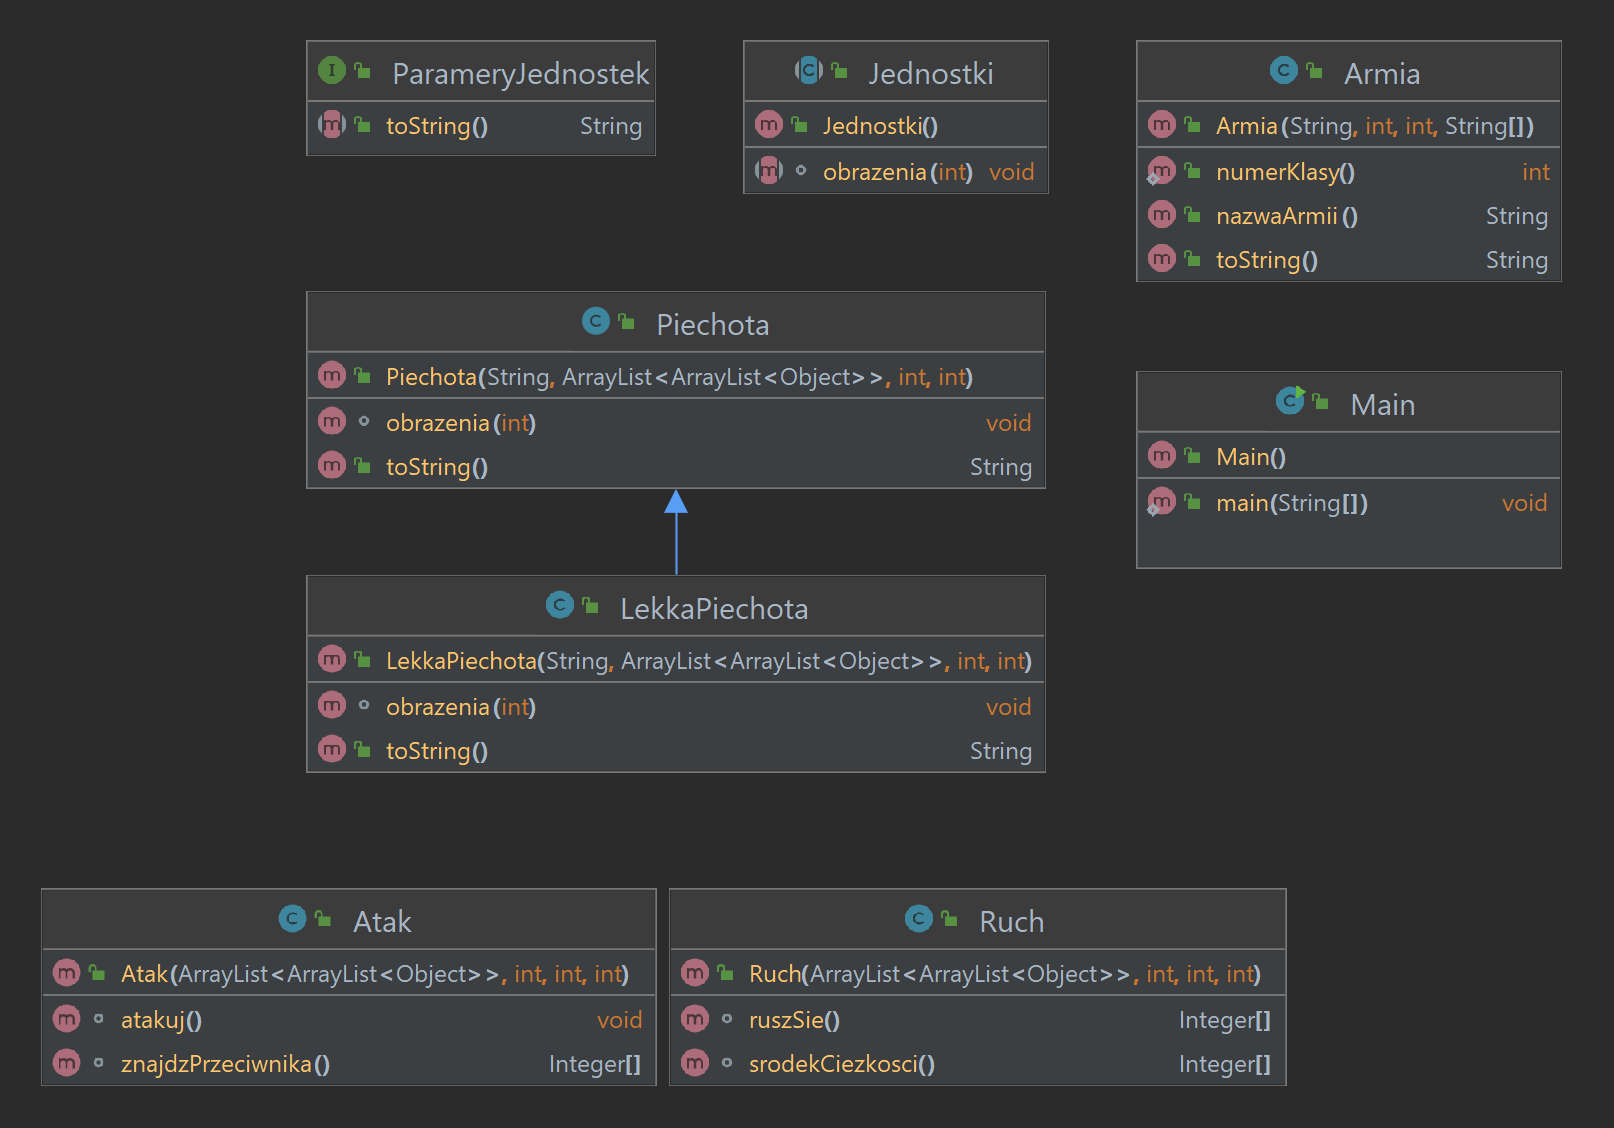
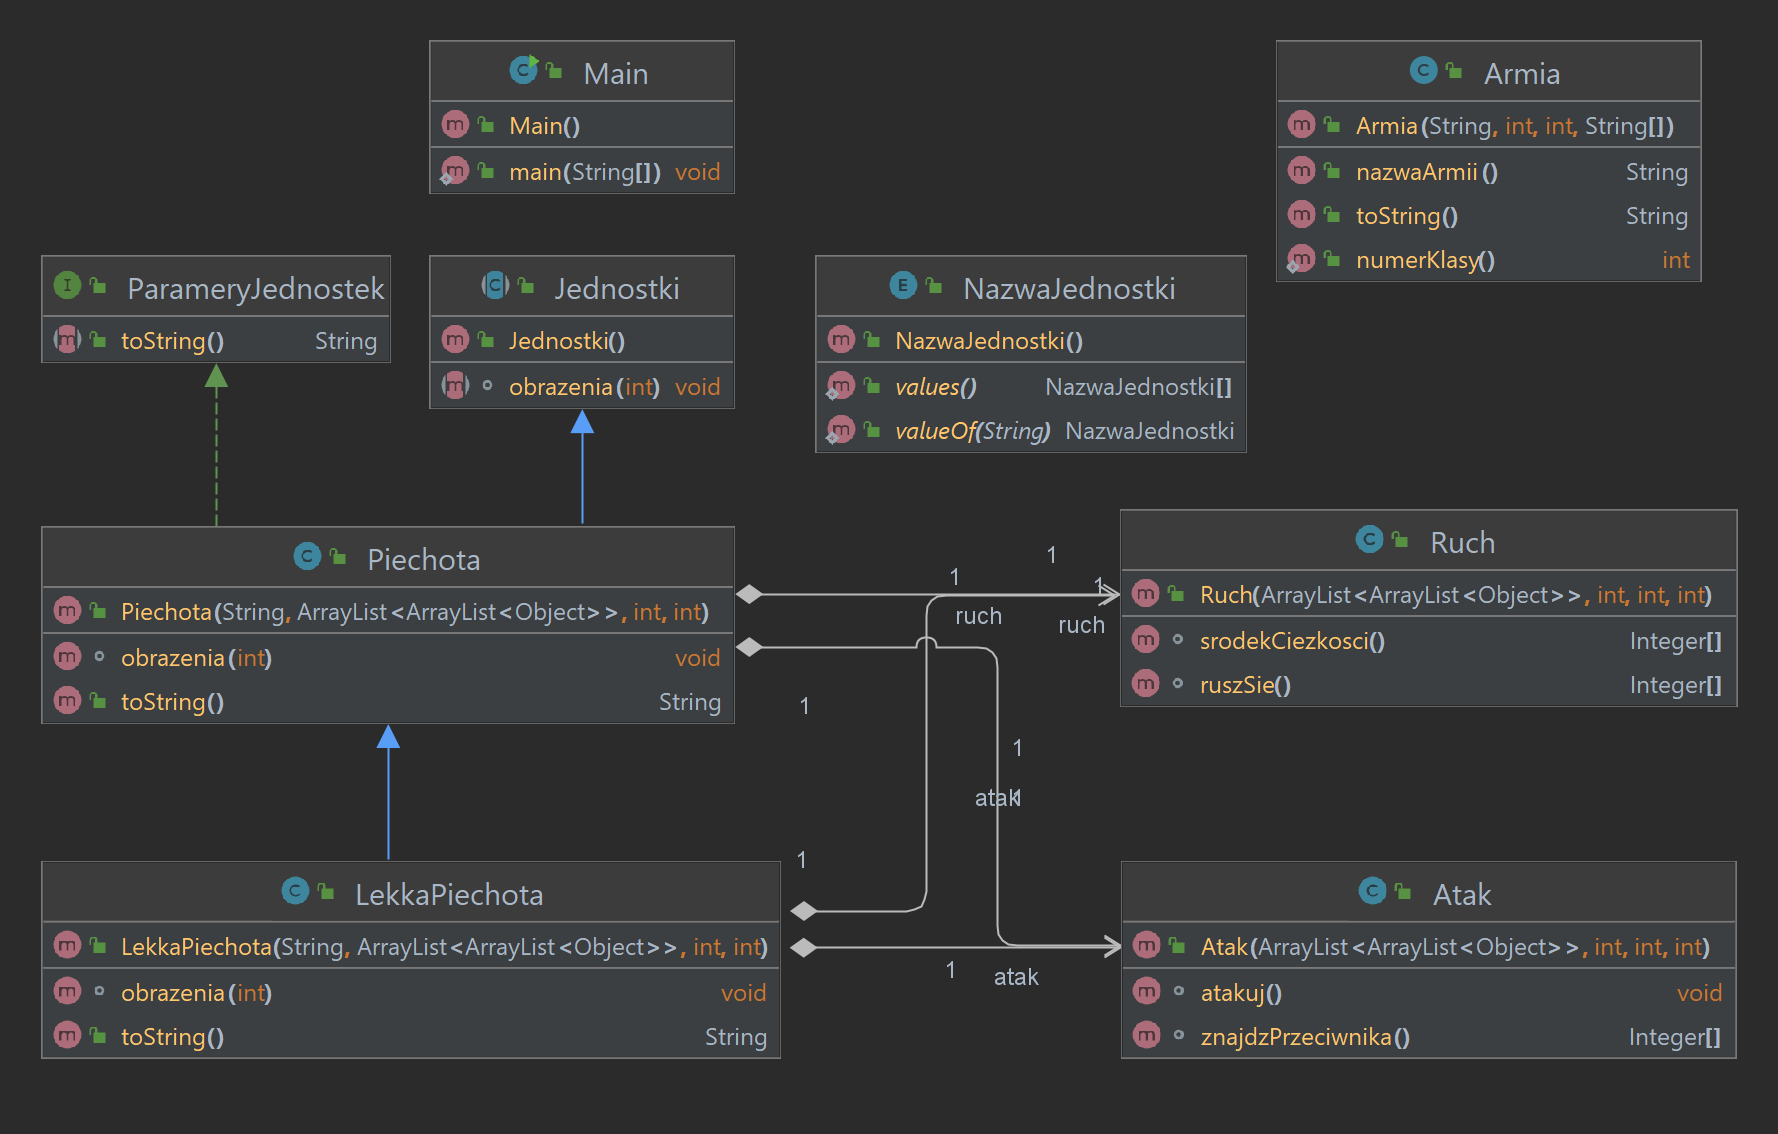
poprawki 2

diff --git a/Symulacja/src/main/java/org/example/Ruch.java b/Symulacja/src/main/java/org/example/Ruch.java
@@ -5,8 +5,8 @@ import java.util.ArrayList;
 public class Ruch {
     private int dlugosc;
     private Integer[] koordynaty = new Integer[2];
-    private ArrayList<ArrayList<Object>> mapa;
-    public Ruch(ArrayList<ArrayList<Object>> mapa, int x, int y,int dlugosc){
+    private ArrayList<ArrayList<Jednostki>> mapa;
+    public Ruch(ArrayList<ArrayList<Jednostki>> mapa, int x, int y,int dlugosc){
         this.dlugosc=dlugosc;
         koordynaty[0]=x;
         koordynaty[1]=y;

diff --git a/Symulacja/src/main/java/org/example/Atak.java b/Symulacja/src/main/java/org/example/Atak.java
@@ -5,8 +5,8 @@ import java.util.ArrayList;
 public class Atak {
     private int damage;
     private Integer[] koordynaty = new Integer[2];
-    private ArrayList<ArrayList<Object>> mapa;
-    public Atak(ArrayList<ArrayList<Object>> mapa, int x, int y, int damage)
+    private ArrayList<ArrayList<Jednostki>> mapa;
+    public Atak(ArrayList<ArrayList<Jednostki>> mapa, int x, int y, int damage)
     {
         koordynaty[0]=x;
         koordynaty[1]=y;

diff --git a/Symulacja/src/main/java/org/example/Piechota.java b/Symulacja/src/main/java/org/example/Piechota.java
@@ -10,7 +10,7 @@ public class Piechota extends Jednostki implements ParameryJednostek{
     private Atak atak;
     private Ruch ruch;
     private final String nazwaArmii;
-    public Piechota(String nazwaArmii, ArrayList<ArrayList<Object>> mapa, int x, int y){
+    public Piechota(String nazwaArmii, ArrayList<ArrayList<Jednostki>> mapa, int x, int y){
         this.nazwaArmii=nazwaArmii;
         if (Armia.numerKlasy()==1)
             skrot="P";

diff --git a/Symulacja/src/main/java/org/example/LekkaPiechota.java b/Symulacja/src/main/java/org/example/LekkaPiechota.java
@@ -10,7 +10,7 @@ public class LekkaPiechota extends Piechota{
     private final String nazwaArmii;
     private Atak atak;
     private Ruch ruch;
-    public LekkaPiechota(String nazwaArmii, ArrayList<ArrayList<Object>> mapa, int x, int y){
+    public LekkaPiechota(String nazwaArmii, ArrayList<ArrayList<Jednostki>> mapa, int x, int y){
         super(nazwaArmii,mapa,x,y);
         this.nazwaArmii=nazwaArmii;
         if (Armia.numerKlasy()==1)
